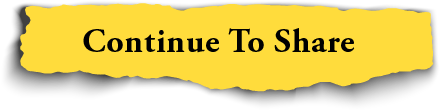
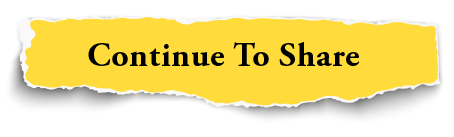
[bug] Fix bugs and new request on 24/7
Fix footer style
Use flex align item center for instruction content
No scroll expected in mobile instruction page
Make more spaces between the buttons and replace button styles
Virtual 360 Popup issue
Instruction page: Font sizes, font weights to be updated
Flex center align the popup
Galleries page: Remove the logo

diff --git a/src/app/pages/Artwork/FinalPage/index.tsx b/src/app/pages/Artwork/FinalPage/index.tsx
@@ -2,13 +2,12 @@ import { Footer } from '../InstructionPage/components/Footer';
 import { Header } from '../InstructionPage/components/Header';
 import { Concept } from '../InstructionPage/components/Concept';
 import { Helmet } from 'react-helmet-async';
-import styled from 'styled-components/macro';
 import ConceptNo3 from './assets/concept-no3.png';
 import ConceptVirtual from './assets/concept-virtual.png';
 import Subscribe from './assets/subscribe.png';
 import { useResponsive } from 'utils/responsive';
-import { useEffect } from 'react';
 import { FOOTER_TEXT } from 'app/helpers/constants';
+import { useMobileFullScreen } from 'hooks';
 
 const icons = [
   {
@@ -26,12 +25,7 @@ export const FinalPage = () => {
   const { isMobile } = useResponsive();
   const subTitle = isMobile ? FOOTER_TEXT.MOBILE : FOOTER_TEXT.DESKTOP;
 
-  useEffect(() => {
-    if (isMobile) {
-      let vh = window.innerHeight * 0.01;
-      document.documentElement.style.setProperty('--vh', `${vh}px`);
-    }
-  }, [isMobile]);
+  const { Wrapper } = useMobileFullScreen();
 
   return (
     <>
@@ -40,7 +34,10 @@ export const FinalPage = () => {
         <meta name="description" content="Create Your Own - Final step" />
       </Helmet>
       <div className="box-border">
-        <ContentWrapper className="flex flex-col relative justify-between sm:justify-start">
+        <Wrapper
+          className="flex flex-col relative justify-between sm:justify-start"
+          style={{ background: '#e3e1e4' }}
+        >
           <Header />
           <div>
             {isMobile && (
@@ -50,27 +47,21 @@ export const FinalPage = () => {
             )}
             <div className="sm:w-4/12 w-11/12 mx-auto sm:text-3xl max-w-screen-sm text-xl sm:pt-6 pb-4 sm:pb-20 pt-4 text-center">
               <p>Discover more about</p>
-              <p className="mb-4">The Macallan and Concept No.3</p>
+              <p className="sm:mb-4 mb-2">The Macallan and Concept No.3</p>
               {icons.map(({ icon, href }, index) => (
                 <a key={index} href={href} target="_blank" rel="noreferrer">
                   <img className="" src={icon} alt={href} />
                 </a>
               ))}
             </div>
-            <p className="text-center sm:absolute mx-auto sm:ml-12 sm:bottom-8 md:text-lg w-full sm:w-auto z-10">
+            <p className="text-center sm:absolute mx-auto sm:ml-12 sm:bottom-8 w-full sm:w-auto z-10">
               {subTitle}
             </p>
           </div>
 
           <Footer className="sm:absolute bottom-0 right-0 w-full sm:w-8/12" />
-        </ContentWrapper>
+        </Wrapper>
       </div>
     </>
   );
 };
-
-const ContentWrapper = styled.div`
-  background: #e3e1e4;
-  height: 100vh;
-  height: calc(var(--vh, 1vh) * 100);
-`;

diff --git a/src/app/pages/Artwork/InstructionPage/components/Instruction.tsx b/src/app/pages/Artwork/InstructionPage/components/Instruction.tsx
@@ -1,4 +1,3 @@
-import styled from 'styled-components/macro';
 import { useResponsive } from 'utils/responsive';
 import { Concept } from './Concept';
 import { Header } from './Header';
@@ -6,24 +5,29 @@ import { Footer } from './Footer';
 import { StartButton } from './StartButton';
 import { Quote } from './Quote';
 import { FOOTER_TEXT } from 'app/helpers/constants';
+import { useMobileFullScreen } from 'hooks';
 
 export const Instruction = () => {
   const { isMobile } = useResponsive();
   const subTitle = isMobile ? FOOTER_TEXT.MOBILE : FOOTER_TEXT.DESKTOP;
+  const { Wrapper } = useMobileFullScreen();
 
   return (
     <>
       <div className="box-border">
-        <ContentWrapper className="flex flex-col h-auto min-h-screen relative z-0">
+        <Wrapper
+          className="flex flex-col relative z-0"
+          style={{ background: '#e3e1e4' }}
+        >
           <Header />
-          <div className="mb-auto flex flex-col items-center justify-center">
-            <div className="w-2/3 md:w-1/4 my-10 md:mt-0">
+          <div className="my-auto flex flex-col items-center justify-center">
+            <div className="w-2/3 md:w-1/4 mb-6 md:my-6">
               <Concept />
             </div>
-            <div className="relative w-4/5 md:w-5/12 text-center text-xl md:text-3xl md:leading-8">
+            <div className="relative w-4/5 md:w-5/12 text-center md:leading-8">
               <Quote />
             </div>
-            <p className="mb-10 mt-4 text-lg md:text-xl font-alternate-bold">
+            <p className="md:mb-10 mb-4 mt-4 text-lg md:text-xl font-gotham-medium tracking-wider">
               David Carson
             </p>
             <p className="text-xl md:text-2xl">Discover your creativity.</p>
@@ -32,16 +36,10 @@ export const Instruction = () => {
             </div>
             <span className="text-xl">#MacallanCreates</span>
           </div>
-          <span className="mx-auto md:ml-12 md:mb-12 md:text-lg z-10">
-            {subTitle}
-          </span>
+          <span className="mx-auto md:ml-12 md:mb-8 z-10">{subTitle}</span>
           <Footer />
-        </ContentWrapper>
+        </Wrapper>
       </div>
     </>
   );
 };
-
-const ContentWrapper = styled.div`
-  background: #e3e1e4;
-`;

diff --git a/src/app/pages/Artwork/StudioPage/components/UploadedPage/Popups/ShareECardPopup.tsx b/src/app/pages/Artwork/StudioPage/components/UploadedPage/Popups/ShareECardPopup.tsx
@@ -51,8 +51,8 @@ export const ShareECardPopup = ({ isOpen, onClose, submitHandler }: Props) => {
   return isOpen ? (
     <>
       <form onSubmit={onSubmit}>
-        <div className="justify-center sm:top-20 top-24 w-screen left-0 right-0 flex overflow-x-hidden overflow-y-auto fixed z-50 outline-none focus:outline-none">
-          <Container className="relative sm:w-6/12 w-10/12 max-w-screen-md sm:text-base text-lg">
+        <Wrapper className="justify-center w-screen fixed z-50 flex outline-none focus:outline-none left-0">
+          <Container className="relative sm:w-6/12 w-10/12 max-w-screen-md sm:text-base text-lg m-auto">
             <div className="sm:w-1/2 w-10/12  m-auto sm:py-16 py-12 flex flex-col items-center">
               <CloseButton
                 className="absolute top-2 right-2 float-right p-1"
@@ -130,7 +130,7 @@ export const ShareECardPopup = ({ isOpen, onClose, submitHandler }: Props) => {
               </Button>
             </div>
           </Container>
-        </div>
+        </Wrapper>
       </form>
       <div className="opacity-70 fixed inset-0 z-40 bg-gray-dark"></div>
     </>
@@ -201,4 +201,10 @@ const Label = styled.label`
     -ms-transform: rotate(45deg);
     transform: rotate(45deg);
   }
+`;
+
+const Wrapper = styled.div`
+  top: 5%;
+  bottom: 5%;
+  max-height: 90%;
 `;

diff --git a/src/app/pages/Artwork/StudioPage/components/UploadedPage/Popups/ThankyouPopup.tsx b/src/app/pages/Artwork/StudioPage/components/UploadedPage/Popups/ThankyouPopup.tsx
@@ -9,8 +9,8 @@ type Props = {
 export const ThankyouPopup = ({ isOpen, onClose }: Props) => {
   return isOpen ? (
     <>
-      <div className="justify-center top-1/4 w-screen left-0 right-0 flex overflow-x-hidden overflow-y-auto fixed z-50 outline-none focus:outline-none">
-        <Container className="relative sm:w-7/12 w-10/12 max-w-screen-md">
+      <Wrapper className="justify-center w-screen fixed z-50 flex outline-none focus:outline-none left-0">
+        <Container className="relative sm:w-7/12 w-10/12 max-w-screen-lg m-auto">
           <div className="sm:w-1/2 w-9/12  m-auto py-20 flex flex-col items-center">
             <CloseButton
               className="absolute top-2 right-2 float-right p-1"
@@ -35,7 +35,7 @@ export const ThankyouPopup = ({ isOpen, onClose }: Props) => {
             </Button>
           </div>
         </Container>
-      </div>
+      </Wrapper>
       <div className="opacity-70 fixed inset-0 z-40 bg-gray-dark"></div>
     </>
   ) : (
@@ -52,4 +52,10 @@ const Button = styled.button`
 
 const Container = styled.div`
   background: #e3e1e4;
+`;
+
+const Wrapper = styled.div`
+  bottom: 5%;
+  top: 5%;
+  max-height: 90%;
 `;

diff --git a/src/app/pages/Artwork/StudioPage/components/Thankyou/ThankyouMobile.tsx b/src/app/pages/Artwork/StudioPage/components/Thankyou/ThankyouMobile.tsx
@@ -9,18 +9,18 @@ type Props = {
 export const ThankyouMobile = ({ onContinue, onStartAgain }: Props) => {
   return (
     <div className="items-stretch justify-between w-full h-full">
-      <div className="my-auto px-4 text-lg flex flex-col items-center">
-        <div className="text-center text-xl">
+      <div className="my-auto px-4 pb-4 text-lg flex flex-col items-center">
+        <div className="text-center text-xl mb-4">
           Thank you for your participation
         </div>
         <button
-          className="w-11/12 focus:outline-none select-none"
+          className="w-9/12 focus:outline-none select-none"
           onClick={() => onContinue()}
         >
           <img src={ContinueToShare} alt="continue to share" />
         </button>
         <button
-          className="w-11/12 -mt-6 focus:outline-none select-none"
+          className="w-9/12 focus:outline-none select-none"
           onClick={() => onStartAgain()}
         >
           <img src={StartAgain} alt="start again" />

diff --git a/src/app/pages/Artwork/StudioPage/components/UploadedPage/UploadedMobile.tsx b/src/app/pages/Artwork/StudioPage/components/UploadedPage/UploadedMobile.tsx
@@ -28,12 +28,12 @@ export const UploadedMobile = ({
     <div className="bg-white">
       <BoxWrapper className="m-auto">
         <p className="mb-2 text-center text-xl">Share your artwork</p>
-        <div className="mb-6">
+        <div className="mb-2">
           {Object.entries(buttonIcons).map(([name, icon]) => (
-            <button key={name} className="focus:outline-none -mb-3">
+            <button key={name} className="focus:outline-none">
               <img
                 src={icon}
-                className="w-10/12 m-auto"
+                className="w-9/12 m-auto"
                 alt={name}
                 onClick={buttonClicks[name]}
               />

diff --git a/src/app/pages/Artwork/InstructionPage/components/Quote.tsx b/src/app/pages/Artwork/InstructionPage/components/Quote.tsx
@@ -15,14 +15,22 @@ export const Quote = () => {
         className="absolute -bottom-4 right-0 md:-right-20 h-20 md:h-full"
         src={quoteEnd}
       />
-      <p className="font-primary-italic">
+      <Content className="font-primary-italic tracking-wider">
         The best work comes from trusting your intuition and your gut, and what
         your heart is telling you
-      </p>
+      </Content>
     </>
   );
 };
 
 const QuoteIcon = styled.img`
   z-index: -1;
+`;
+
+const Content = styled.p`
+  font-size: 26px;
+
+  @media (max-width: 767px) {
+    font-size: 18px;
+  }
 `;

diff --git a/src/hooks/useMobileFullScreen.ts b/src/hooks/useMobileFullScreen.ts
@@ -1,0 +1,22 @@
+import { useEffect } from 'react';
+import styled from 'styled-components/macro';
+import { useResponsive } from 'utils/responsive';
+
+const useMobileFullScreen = () => {
+  const { isMobile } = useResponsive();
+  useEffect(() => {
+    if (isMobile) {
+      let vh = window.innerHeight * 0.01;
+      document.documentElement.style.setProperty('--vh', `${vh}px`);
+    }
+  }, [isMobile]);
+
+  return { Wrapper };
+};
+
+export { useMobileFullScreen };
+
+const Wrapper = styled.div`
+  height: 100vh;
+  height: calc(var(--vh, 1vh) * 100);
+`;

diff --git a/src/app/components/Footer/FooterMobile.tsx b/src/app/components/Footer/FooterMobile.tsx
@@ -29,7 +29,7 @@ export const FooterMobile: React.FC<Partial<FooterProps>> = ({
 
   return (
     <FooterWrapper className={`bottom-0 ${className}`}>
-      <FooterInner className="bg-white flex flex-col items-center justify-between h-full font-Alternate-bold relative border-t border-gray-light border-solid">
+      <FooterInner className="bg-white flex flex-col items-center justify-between h-full font-Alternate-bold relative border-t-2 border-gray-light border-solid">
         {showPrevButton && (
           <PrevButton
             onClick={() =>

diff --git a/src/app/pages/CYOGallery/Components/Header/index.tsx b/src/app/pages/CYOGallery/Components/Header/index.tsx
@@ -1,12 +1,9 @@
-import { Logo } from 'app/components/Header/Logo';
 import styled from 'styled-components/macro';
 
 export const Header = () => {
   return (
     <HeaderWrapper className="sticky z-10 top-0">
-      <div className="flex flex-row items-center justify-between border-b border-gray-light border-solid bg-white">
-        <Logo />
-      </div>
+      <div className="flex flex-row items-center justify-between border-b border-gray-light border-solid bg-white h-16"></div>
     </HeaderWrapper>
   );
 };

diff --git a/src/app/pages/Artwork/FormatPage/components/SizeBox.tsx b/src/app/pages/Artwork/FormatPage/components/SizeBox.tsx
@@ -31,7 +31,7 @@ export const SizeBox = () => {
             STEP 1: CHOOSE FORMAT
           </strong>
         </div>
-        <div className="grid grid-cols-3 items-end text-center">
+        <div className="grid grid-cols-3 items-end text-center font-Alternate-bold">
           <div className="group">
             <Square
               ref={e => (refs[StageFormat.SQUARE] = e)}

diff --git a/tailwind.config.js b/tailwind.config.js
@@ -110,7 +110,8 @@ module.exports = {
       samuel: ['HhSamuel-E80W'],
       alternate: ['DIN-Alternate'],
       'alternate-bold': ['DIN-Alternate-Bold'],
-      gotham: ['Gotham-Book']
+      gotham: ['Gotham-Book'],
+      'gotham-medium': ['Gotham-Medium']
     },
     fontSize: {
       xs: '.75rem',
